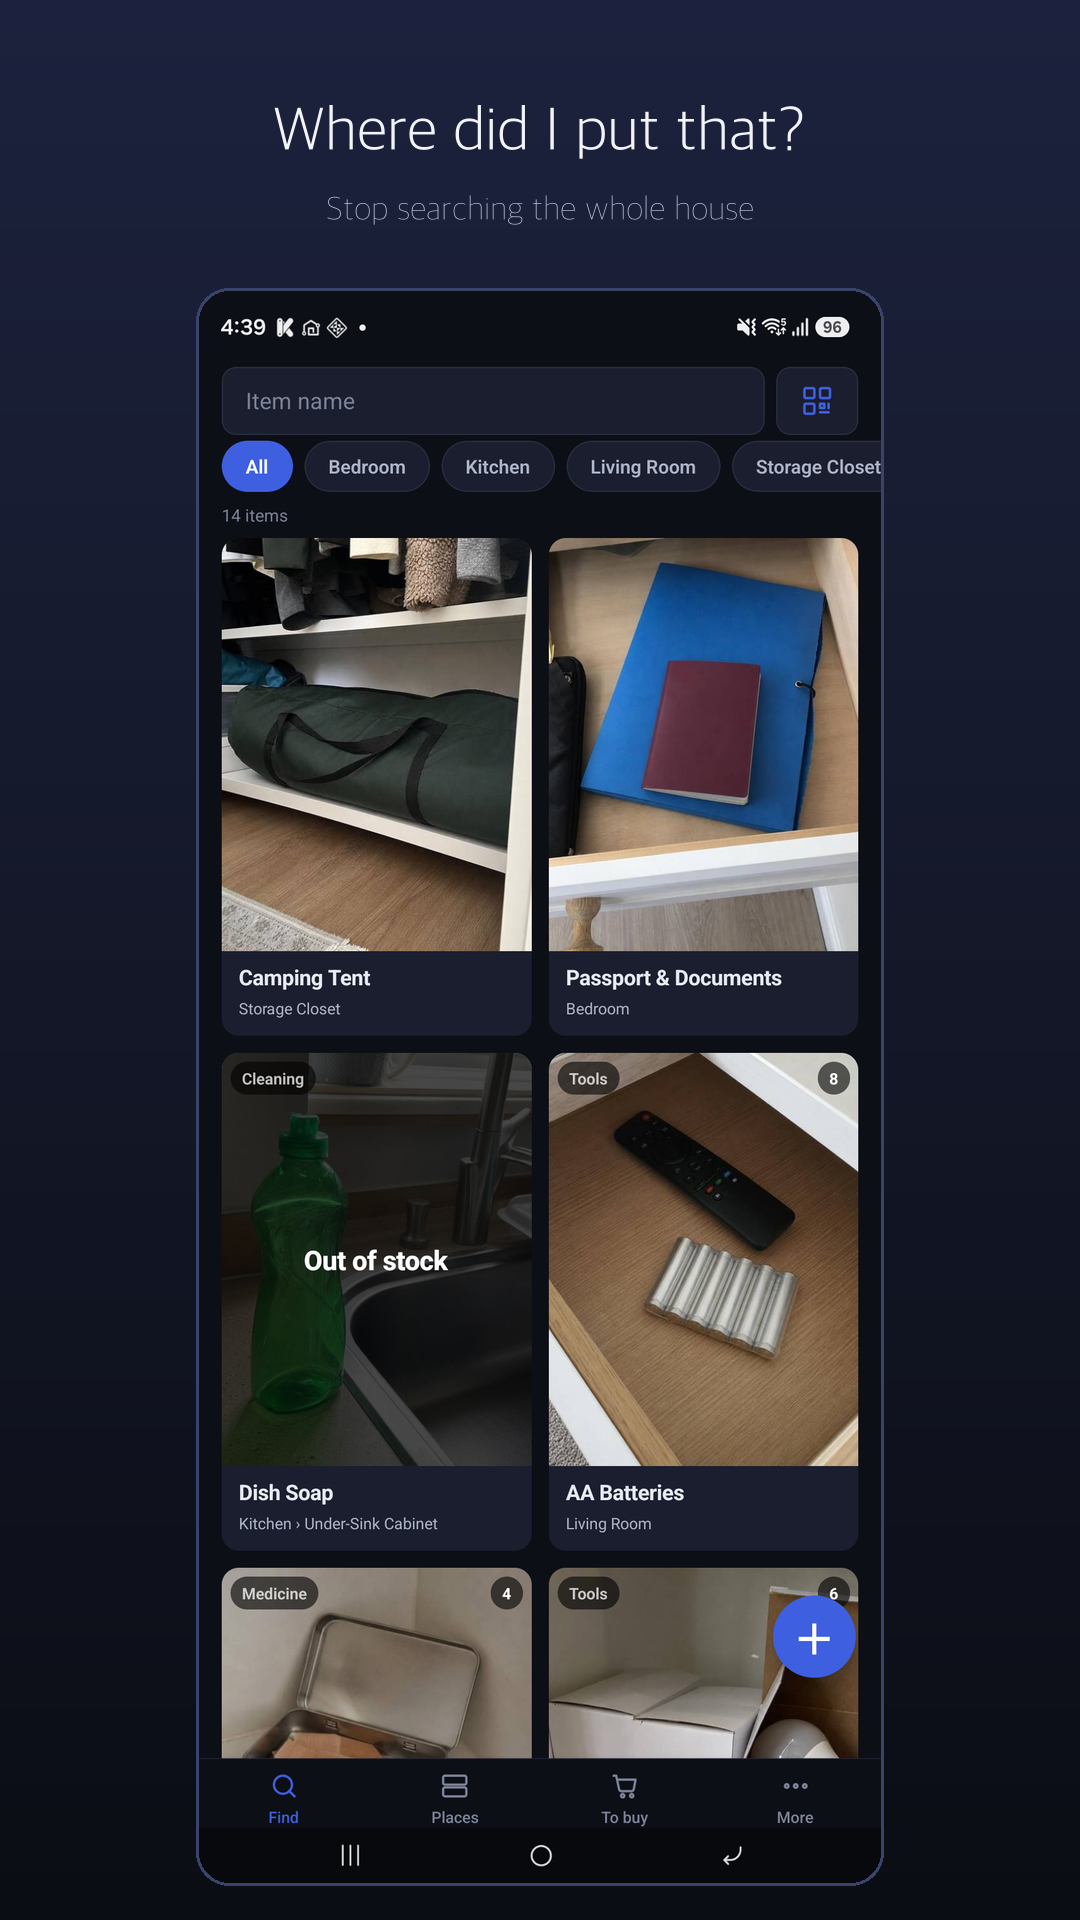
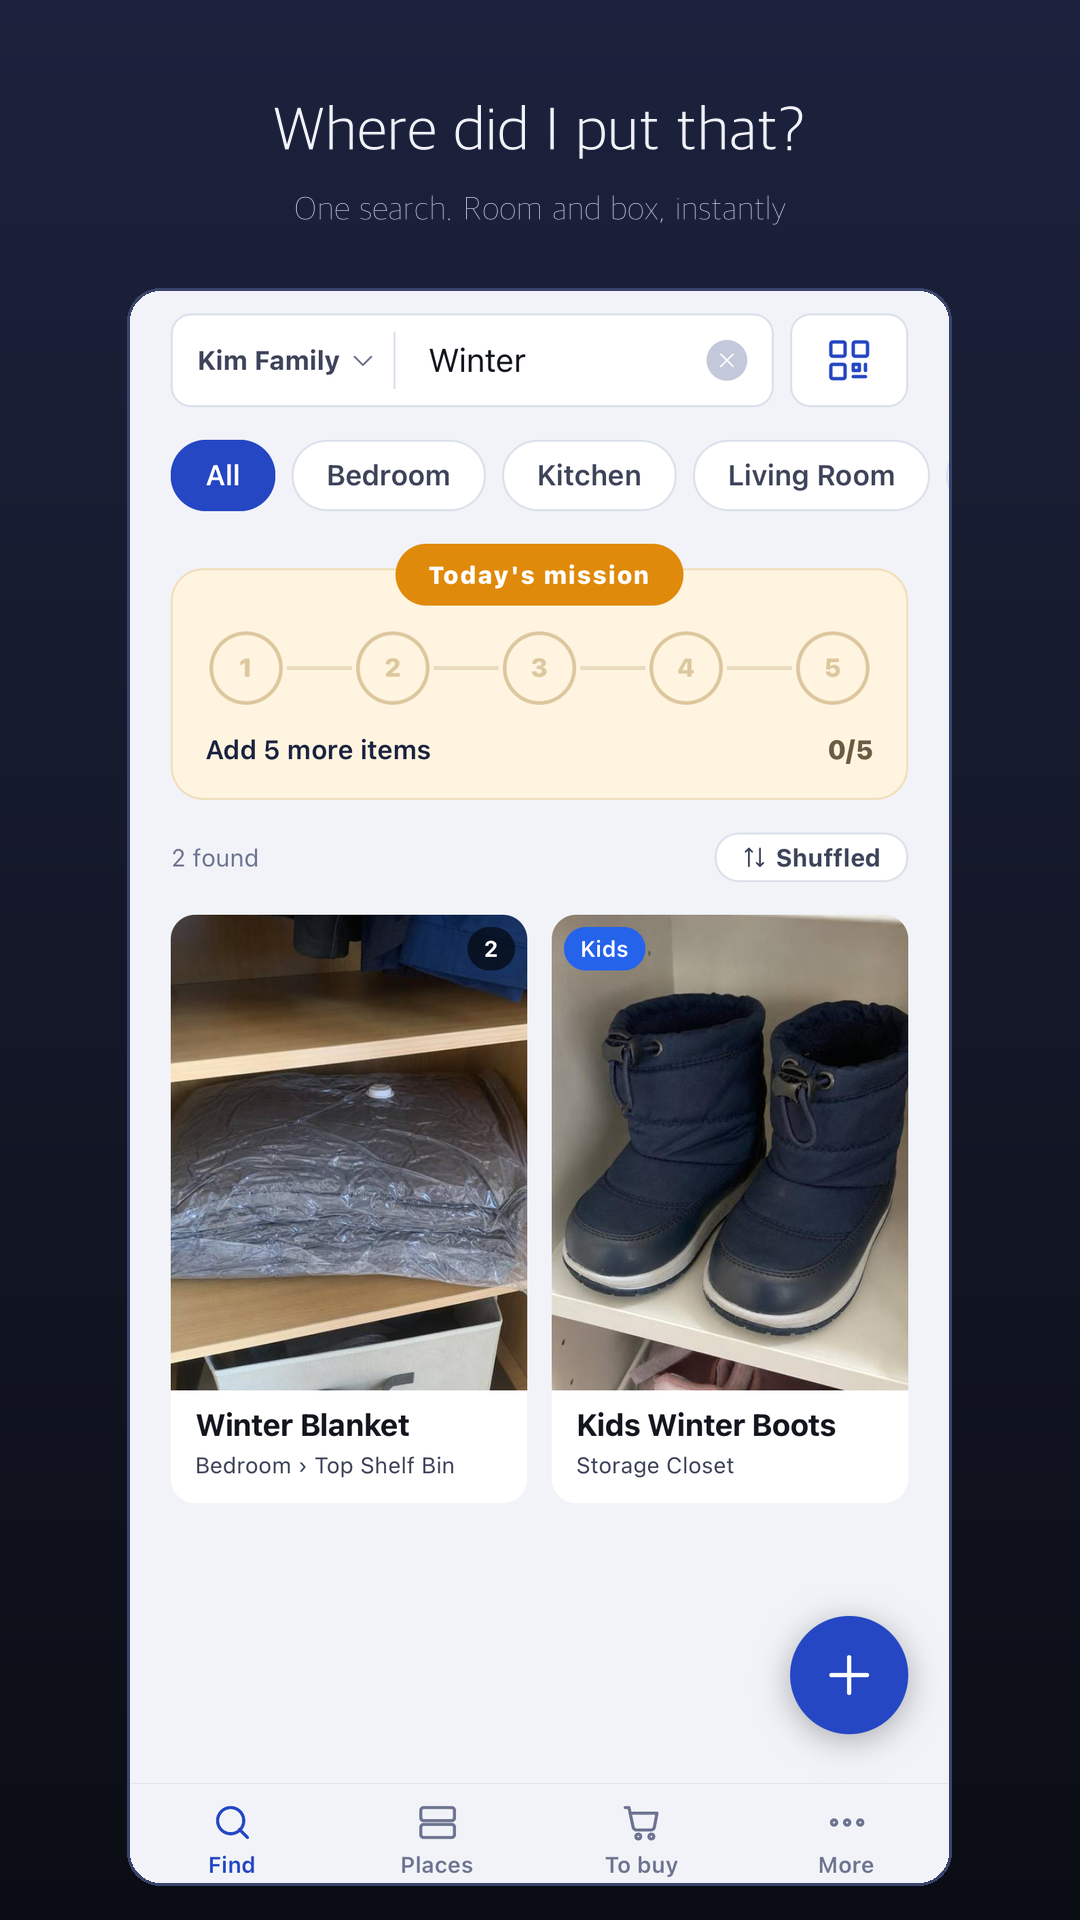
영어 랜딩 페이지·스토어 스크린샷 5장을 새로 만든다 — 글로벌(en-US) 우선으로 간다
- docs/index.html 을 영어 SEO 랜딩으로 다시 쓰고 한국어는 docs/ko/ 로 옮긴다
  (hreflang, OG, JSON-LD SoftwareApplication, sitemap.xml, robots.txt)
- 스크린샷은 심사 계정(Kim Family, 영어 UI)에서 이야기 순서로 5장:
  검색 결과 → 물건 상세 → 박스 상세 → 장소 목록 → 가족 초대
- 캡션 3번은 "QR labels on every box" 대신 스캔 뒤에 보이는 박스 상세로 맞춘다 —
  앱 안에 QR 을 크게 보여주는 화면이 없고, 인쇄 미리보기는 시스템 UI 라 스토어용으로 부적합
- 포지셔닝 문장("정리 앱이 아니다, 집의 기억이다")을 play-store-listing.md 맨 위에 적는다

diff --git a/docs/index.html b/docs/index.html
@@ -1,31 +1,109 @@
 <!doctype html>
-<html lang="ko">
+<html lang="en">
 <head>
 <meta charset="utf-8" />
 <meta name="viewport" content="width=device-width, initial-scale=1" />
-<title>어디뒀지 (Stow)</title>
+<title>Stow – Find what you put away | Home item finder app for Android</title>
+<meta name="description" content="Where did I put that? Stow remembers which room and which box you put things in. Snap a photo, type a name, find it in one search. Free on Google Play." />
+<link rel="canonical" href="https://jkinject.github.io/stow-app/" />
+<link rel="alternate" hreflang="en" href="https://jkinject.github.io/stow-app/" />
+<link rel="alternate" hreflang="ko" href="https://jkinject.github.io/stow-app/ko/" />
+<link rel="alternate" hreflang="x-default" href="https://jkinject.github.io/stow-app/" />
+<meta property="og:type" content="website" />
+<meta property="og:title" content="Stow – Find what you put away" />
+<meta property="og:description" content="Snap a photo when you stow it, then find it by name. Boxes, QR labels, and the whole family in one home." />
+<meta property="og:url" content="https://jkinject.github.io/stow-app/" />
+<meta property="og:image" content="https://jkinject.github.io/stow-app/store/feature-graphic-1024x500.png" />
+<meta name="twitter:card" content="summary_large_image" />
+<link rel="icon" href="./store/icon-512.png" />
 <link rel="stylesheet" href="./_shared.css" />
+<script type="application/ld+json">
+{
+  "@context": "https://schema.org",
+  "@type": "SoftwareApplication",
+  "name": "Stow",
+  "alternateName": "어디뒀지",
+  "operatingSystem": "Android",
+  "applicationCategory": "LifestyleApplication",
+  "description": "Stow remembers which room and which box you put things in. Snap a photo, type a name, find it in one search. QR labels for boxes, shared with your family.",
+  "offers": { "@type": "Offer", "price": "0", "priceCurrency": "USD" },
+  "installUrl": "https://play.google.com/store/apps/details?id=net.jangstar.stow",
+  "url": "https://jkinject.github.io/stow-app/",
+  "image": "https://jkinject.github.io/stow-app/store/icon-512.png",
+  "inLanguage": ["en", "ko", "ja", "de", "fr", "es"]
+}
+</script>
+<style>
+  .hero { display: grid; grid-template-columns: 1fr; gap: 20px; align-items: center; }
+  .hero h1 { font-size: 38px; line-height: 1.2; margin: 0; }
+  .hero .lead { font-size: 18px; color: var(--muted); margin: 0; }
+  .cta { display: inline-flex; align-items: center; gap: 10px; background: var(--accent); color: #fff; text-decoration: none; padding: 14px 22px; border-radius: 999px; font-weight: 700; }
+  .cta:hover { opacity: .9; }
+  .sub { color: var(--faint); font-size: 14px; }
+  .shots { display: grid; grid-template-columns: repeat(auto-fit, minmax(160px, 1fr)); gap: 12px; margin: 20px 0; }
+  .shots img { width: 100%; border-radius: 12px; border: 1px solid var(--line); }
+  .steps { display: grid; grid-template-columns: repeat(auto-fit, minmax(200px, 1fr)); gap: 12px; }
+  .steps .box { margin: 0; }
+  .steps b { display: block; color: var(--text); margin-bottom: 4px; }
+  details { border-bottom: 1px solid var(--line); padding: 10px 0; }
+  summary { cursor: pointer; font-weight: 700; color: var(--text); }
+  details p { margin: 8px 0 0; }
+  .lang { float: right; font-size: 14px; }
+  @media (min-width: 640px) { .hero { grid-template-columns: 1.2fr 1fr; } }
+</style>
 </head>
 <body>
 <div class="wrap">
-  <h1>어디뒀지 <span class="tag">Stow</span></h1>
-  <p class="lead">집 안 물건이 어디 있는지 찾아주는 앱</p>
+  <a class="lang" href="./ko/" hreflang="ko">한국어</a>
+  <section class="hero">
+    <div>
+      <p class="lead">Stow · Android</p>
+      <h1>Where did I put that?</h1>
+      <p class="lead">Stow remembers which room and which box you put things in. Snap a photo, type a name, and find it in one search — with your whole family.</p>
+      <p><a class="cta" href="https://play.google.com/store/apps/details?id=net.jangstar.stow">Get it on Google Play</a></p>
+      <p class="sub">Free · No ads · No analytics trackers</p>
+    </div>
+    <img src="./site/01.png" alt="Stow app: searching for an item and seeing which room and box it is in" width="540" height="960" style="width:100%;height:auto;border-radius:16px;" />
+  </section>
 
-  <div class="box">
-    <p>물건을 사진 찍어 어느 방, 어느 박스에 뒀는지 기록해 두면,
-       나중에 이름만으로 바로 찾을 수 있습니다. 가족이 같은 집을 함께 씁니다.</p>
+  <h2>Not an organizing app</h2>
+  <p>You already have a sensible place for the winter coats, the camping gear, the kids' old toys and the spare cables. The problem is remembering it six months later. Stow is a memory for your house, not a to-do list for tidying it.</p>
+
+  <h2>How it works</h2>
+  <div class="steps">
+    <div class="box"><b>1. Snap and name</b>Take a photo as you put something away and type its name. Ten seconds.</div>
+    <div class="box"><b>2. Pick the place and box</b>Places (bedroom, garage, storage unit) hold boxes. Boxes hold things. That's the whole model.</div>
+    <div class="box"><b>3. Search later</b>Type part of the name. Stow shows the photo and the exact place and box.</div>
+    <div class="box"><b>4. Scan the box</b>Print QR labels, 21 per A4 sheet. Scan one and its contents open instantly.</div>
   </div>
 
-  <h2>문서</h2>
+  <div class="shots">
+    <img src="./site/02.png" alt="Item detail showing the item's photo, location path and quantity" loading="lazy" />
+    <img src="./site/03.png" alt="Box detail listing everything inside the box" loading="lazy" />
+    <img src="./site/04.png" alt="Places list with boxes and item counts" loading="lazy" />
+    <img src="./site/05.png" alt="Family screen with a shared invite code" loading="lazy" />
+  </div>
+
+  <h2>Built for households</h2>
+  <p>One invite code brings your family into the same home. Everyone sees the same boxes, every change is logged, and you can keep an office or a second home as a separate space. Expiry dates remind you before food or medicine runs out. Deleted things stay in Trash for 30 days.</p>
+
+  <h2>FAQ</h2>
+  <details><summary>Is Stow free?</summary><p>Yes. No ads, no subscription, no analytics trackers. Your photos are stored privately for your household only.</p></details>
+  <details><summary>Does it work without internet?</summary><p>Your last list stays available offline for searching. Adding items needs a connection; photos taken offline upload later automatically.</p></details>
+  <details><summary>Can I use it for a storage unit, office or garage?</summary><p>Yes. A "space" can be anything: your home, an office, a storage unit. Each space has its own places, boxes and members.</p></details>
+  <details><summary>Is there an iPhone version?</summary><p>Not yet. Stow is on Android today; iOS is planned.</p></details>
+  <details><summary>How do the QR labels work?</summary><p>Every box gets a QR code. Print them from the app (21 per A4 sheet), cut, stick. Scanning with the phone camera opens that box's contents.</p></details>
+
+  <h2>Documents</h2>
   <ul>
-    <li><a href="./privacy/">개인정보처리방침</a> · <a href="./privacy/en/">Privacy Policy (English)</a></li>
-    <li><a href="./delete-account/">계정 및 데이터 삭제</a> · <a href="./delete-account/en/">Delete your account (English)</a></li>
+    <li><a href="./privacy/en/">Privacy Policy</a> · <a href="./privacy/">개인정보처리방침</a></li>
+    <li><a href="./delete-account/en/">Delete your account</a> · <a href="./delete-account/">계정 및 데이터 삭제</a></li>
   </ul>
 
-  <h2>문의</h2>
+  <h2>Contact</h2>
   <p><a href="mailto:jkinject@gmail.com">jkinject@gmail.com</a></p>
 
-  <footer>어디뒀지 (Stow)</footer>
+  <footer>Stow · 어디뒀지 — <a href="https://play.google.com/store/apps/details?id=net.jangstar.stow">Google Play</a></footer>
 </div>
 </body>
 </html>

diff --git a/docs/ko/index.html b/docs/ko/index.html
@@ -1,0 +1,92 @@
+<!doctype html>
+<html lang="ko">
+<head>
+<meta charset="utf-8" />
+<meta name="viewport" content="width=device-width, initial-scale=1" />
+<title>어디뒀지 (Stow) – 집 안 물건 어디 뒀는지 찾아주는 앱</title>
+<meta name="description" content="그거 어디 뒀더라? 어디뒀지는 물건을 어느 방, 어느 박스에 넣었는지 기억해 줍니다. 사진 한 장 찍고 이름만 적으면 나중에 검색 한 번으로 찾습니다. 가족과 함께, 무료." />
+<link rel="canonical" href="https://jkinject.github.io/stow-app/ko/" />
+<link rel="alternate" hreflang="ko" href="https://jkinject.github.io/stow-app/ko/" />
+<link rel="alternate" hreflang="en" href="https://jkinject.github.io/stow-app/" />
+<link rel="alternate" hreflang="x-default" href="https://jkinject.github.io/stow-app/" />
+<meta property="og:type" content="website" />
+<meta property="og:title" content="어디뒀지 – 집 안 물건 찾기" />
+<meta property="og:description" content="사진 찍고 이름만 적으면, 어느 방 어느 박스에 뒀는지 검색 한 번으로. 박스 QR 라벨, 가족 공유." />
+<meta property="og:url" content="https://jkinject.github.io/stow-app/ko/" />
+<meta property="og:image" content="https://jkinject.github.io/stow-app/store/feature-graphic-1024x500.png" />
+<link rel="icon" href="../store/icon-512.png" />
+<link rel="stylesheet" href="../_shared.css" />
+<script type="application/ld+json">
+{ "@context": "https://schema.org", "@type": "SoftwareApplication", "name": "어디뒀지", "alternateName": "Stow", "operatingSystem": "Android", "applicationCategory": "LifestyleApplication",
+  "description": "물건을 어느 방, 어느 박스에 넣었는지 기억해 주는 앱. 사진 한 장, 이름 하나, 검색 한 번.", "offers": { "@type": "Offer", "price": "0", "priceCurrency": "KRW" },
+  "installUrl": "https://play.google.com/store/apps/details?id=net.jangstar.stow", "url": "https://jkinject.github.io/stow-app/ko/", "image": "https://jkinject.github.io/stow-app/store/icon-512.png", "inLanguage": "ko" }
+</script>
+<style>
+  .hero { display: grid; grid-template-columns: 1fr; gap: 20px; align-items: center; }
+  .hero h1 { font-size: 36px; line-height: 1.25; margin: 0; }
+  .hero .lead { font-size: 17px; color: var(--muted); margin: 0; }
+  .cta { display: inline-flex; align-items: center; gap: 10px; background: var(--accent); color: #fff; text-decoration: none; padding: 14px 22px; border-radius: 999px; font-weight: 700; }
+  .sub { color: var(--faint); font-size: 14px; }
+  .shots { display: grid; grid-template-columns: repeat(auto-fit, minmax(160px, 1fr)); gap: 12px; margin: 20px 0; }
+  .shots img { width: 100%; border-radius: 12px; border: 1px solid var(--line); }
+  .steps { display: grid; grid-template-columns: repeat(auto-fit, minmax(200px, 1fr)); gap: 12px; }
+  .steps .box { margin: 0; } .steps b { display: block; color: var(--text); margin-bottom: 4px; }
+  details { border-bottom: 1px solid var(--line); padding: 10px 0; } summary { cursor: pointer; font-weight: 700; color: var(--text); } details p { margin: 8px 0 0; }
+  .lang { float: right; font-size: 14px; }
+  @media (min-width: 640px) { .hero { grid-template-columns: 1.2fr 1fr; } }
+</style>
+</head>
+<body>
+<div class="wrap">
+  <a class="lang" href="../" hreflang="en">English</a>
+  <section class="hero">
+    <div>
+      <p class="lead">어디뒀지 · Android</p>
+      <h1>그거 어디 뒀더라?</h1>
+      <p class="lead">어디뒀지는 물건을 어느 방, 어느 박스에 넣었는지 기억해 줍니다. 사진 한 장 찍고 이름만 적으면, 나중에 검색 한 번으로 찾습니다. 가족이 같은 집을 함께 씁니다.</p>
+      <p><a class="cta" href="https://play.google.com/store/apps/details?id=net.jangstar.stow">Google Play에서 받기</a></p>
+      <p class="sub">무료 · 광고 없음 · 분석 추적기 없음</p>
+    </div>
+    <img src="../site/01.png" alt="어디뒀지 앱: 물건을 검색해 어느 방 어느 박스에 있는지 보는 화면" width="540" height="960" style="width:100%;height:auto;border-radius:16px;" />
+  </section>
+
+  <h2>정리 앱이 아닙니다</h2>
+  <p>겨울옷, 캠핑 장비, 아이가 크면서 안 쓰는 장난감, 여분 케이블. 둘 자리는 이미 잘 정했습니다. 문제는 여섯 달 뒤에 그 자리를 기억하는 일입니다. 어디뒀지는 집의 기억이지, 정리하라는 할 일 목록이 아닙니다.</p>
+
+  <h2>이렇게 씁니다</h2>
+  <div class="steps">
+    <div class="box"><b>1. 찍고 이름 적기</b>넣으면서 사진 한 장, 이름 하나. 10초.</div>
+    <div class="box"><b>2. 장소와 박스 고르기</b>장소(안방, 창고, 사무실) 안에 박스, 박스 안에 물건. 이게 전부입니다.</div>
+    <div class="box"><b>3. 나중에 검색</b>이름 일부만 쳐도, 초성만 쳐도 사진과 정확한 위치가 나옵니다.</div>
+    <div class="box"><b>4. 박스 스캔</b>QR 라벨을 A4 한 장에 21개씩 인쇄해 붙이면, 스캔 한 번에 내용물이 열립니다.</div>
+  </div>
+
+  <div class="shots">
+    <img src="../site/02.png" alt="물건 상세 — 사진, 위치 경로, 수량" loading="lazy" />
+    <img src="../site/03.png" alt="박스 상세 — 박스 안에 든 물건 목록" loading="lazy" />
+    <img src="../site/04.png" alt="보관 장소 목록 — 박스와 물건 개수" loading="lazy" />
+    <img src="../site/05.png" alt="가족 화면 — 초대 코드" loading="lazy" />
+  </div>
+
+  <h2>가족을 위해 만들었습니다</h2>
+  <p>초대 코드 하나로 가족이 같은 집에 들어옵니다. 같은 박스를 보고, 바뀐 기록이 남고, 사무실이나 본가는 따로 공간을 만들어 관리합니다. 소비기한을 넣어 두면 만료 전에 알려 주고, 지운 것은 30일 동안 휴지통에 남습니다.</p>
+
+  <h2>자주 묻는 질문</h2>
+  <details><summary>무료인가요?</summary><p>네. 광고도, 구독도, 분석 추적기도 없습니다. 사진은 가족 공간에서만 볼 수 있게 저장됩니다.</p></details>
+  <details><summary>인터넷 없이도 되나요?</summary><p>마지막 목록은 오프라인에서도 검색됩니다. 등록은 연결이 필요하고, 오프라인에서 찍은 사진은 나중에 자동으로 올라갑니다.</p></details>
+  <details><summary>창고·사무실에도 쓸 수 있나요?</summary><p>네. "공간"은 집·사무실·창고 무엇이든 됩니다. 공간마다 장소·박스·구성원이 따로입니다.</p></details>
+  <details><summary>아이폰 버전은요?</summary><p>아직 없습니다. 지금은 Android이고 iOS는 준비 중입니다.</p></details>
+
+  <h2>문서</h2>
+  <ul>
+    <li><a href="../privacy/">개인정보처리방침</a> · <a href="../privacy/en/">Privacy Policy (English)</a></li>
+    <li><a href="../delete-account/">계정 및 데이터 삭제</a> · <a href="../delete-account/en/">Delete your account (English)</a></li>
+  </ul>
+
+  <h2>문의</h2>
+  <p><a href="mailto:jkinject@gmail.com">jkinject@gmail.com</a></p>
+
+  <footer>어디뒀지 (Stow) — <a href="https://play.google.com/store/apps/details?id=net.jangstar.stow">Google Play</a></footer>
+</div>
+</body>
+</html>

diff --git a/scripts/gen-store-screenshots.py b/scripts/gen-store-screenshots.py
@@ -84,11 +84,11 @@ def center(d, text, y, f, fill):
 #   한 화면에 두 언어가 섞이면 스토어에서 무슨 앱인지 안 읽힌다.
 #   한국어 세트는 한국어 데이터가 있는 가구에서 따로 찍어야 한다.
 SHOTS = [
-    ('sh1.png', "Where did I put that?",   'Stop searching the whole house'),
-    ('sh2.png', 'Just type the name',      'Finds it as you type'),
-    ('sh5.png', 'Boxes inside places',     'Two levels is all you need'),
-    ('sh3.png', 'Every place at a glance', 'Photos of what is actually inside'),
-    ('sh4.png', 'Knows what ran out',      'Restock before you notice'),
+    ('sh1.png', 'Where did I put that?',     'One search. Room and box, instantly'),
+    ('sh2.png', 'Snap it, name it, done',    'Stow remembers where it went'),
+    ('sh3.png', 'Scan the box, skip the digging', 'Every box gets a QR label'),
+    ('sh4.png', 'Your home, mapped',         'Places hold boxes, boxes hold things'),
+    ('sh5.png', 'Whole family, one home',    'One invite code, everyone in sync'),
 ]
 
 TITLE = font(62, 12)   # Bold
